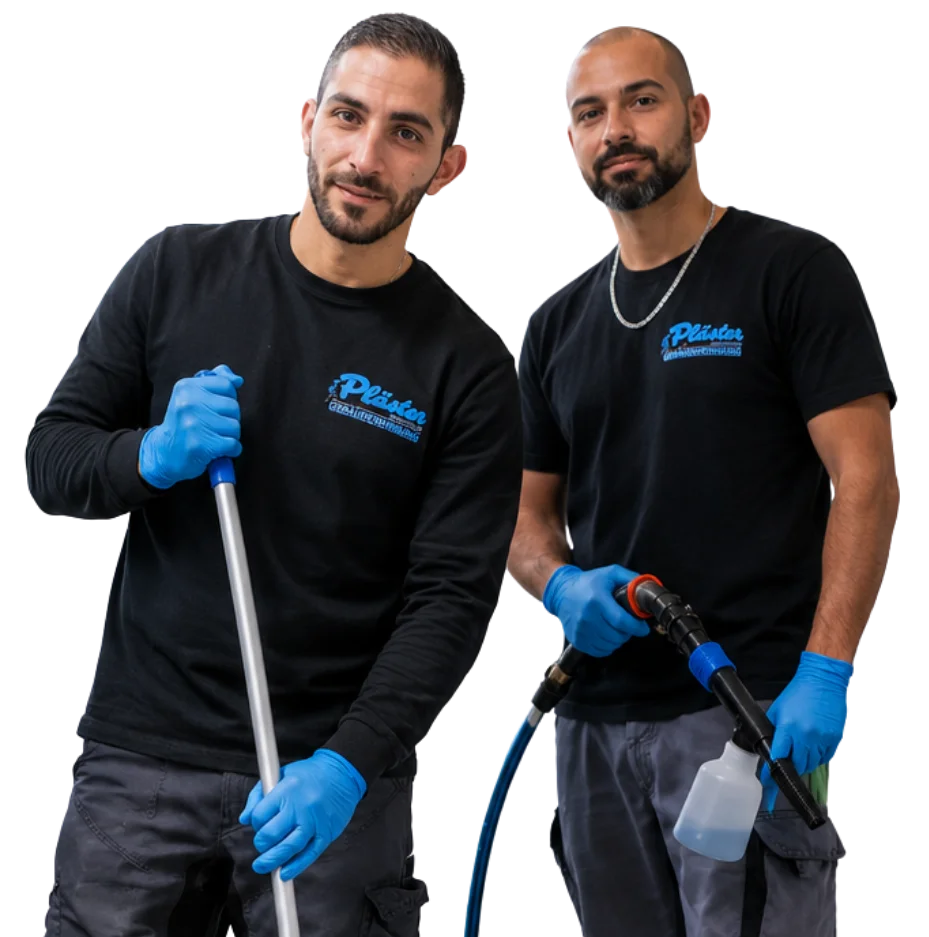
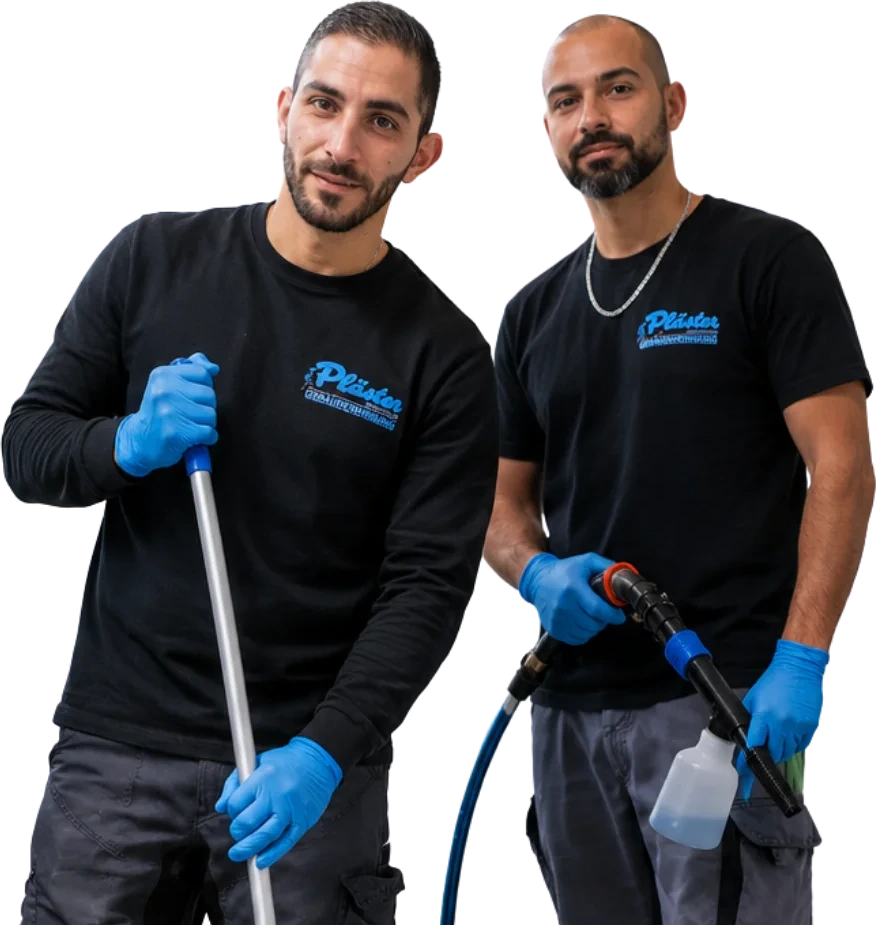
Hero flush fix, keyword marquee, magnetic CTAs, animated services bg
- Auto-crop the hero cut-out (trim baked-in padding) and drop its scroll
  parallax so it stays pinned flush to the hero bottom
- Add an animated keyword marquee band under the hero (Framer Motion loop)
- Magnetic primary CTAs (hero + CTA band) that drift toward the cursor
- Services section background now animates (drifting dot pattern)
- All reduced-motion safe

Claude-Session: https://claude.ai/code/session_019mBCDXaPf87T9i6cpRMSok

diff --git a/src/components/Magnetic.tsx b/src/components/Magnetic.tsx
@@ -1,0 +1,44 @@
+import { useRef } from "react";
+import type { ReactNode } from "react";
+import { motion, useMotionValue, useSpring, useReducedMotion } from "framer-motion";
+
+/** Wraps a button/link so it gently moves toward the cursor (magnetic effect). */
+export default function Magnetic({
+  children,
+  strength = 0.35,
+  className,
+}: {
+  children: ReactNode;
+  strength?: number;
+  className?: string;
+}) {
+  const reduce = useReducedMotion();
+  const ref = useRef<HTMLSpanElement>(null);
+  const x = useMotionValue(0);
+  const y = useMotionValue(0);
+  const sx = useSpring(x, { stiffness: 250, damping: 18, mass: 0.3 });
+  const sy = useSpring(y, { stiffness: 250, damping: 18, mass: 0.3 });
+
+  function handleMove(e: React.MouseEvent) {
+    if (reduce || !ref.current) return;
+    const r = ref.current.getBoundingClientRect();
+    x.set((e.clientX - (r.left + r.width / 2)) * strength);
+    y.set((e.clientY - (r.top + r.height / 2)) * strength);
+  }
+  function handleLeave() {
+    x.set(0);
+    y.set(0);
+  }
+
+  return (
+    <motion.span
+      ref={ref}
+      className={className}
+      onMouseMove={handleMove}
+      onMouseLeave={handleLeave}
+      style={reduce ? { display: "inline-flex" } : { x: sx, y: sy, display: "inline-flex" }}
+    >
+      {children}
+    </motion.span>
+  );
+}

diff --git a/src/components/Marquee.tsx b/src/components/Marquee.tsx
@@ -1,0 +1,33 @@
+import { motion, useReducedMotion } from "framer-motion";
+
+const items = [
+  "Unterhaltsreinigung",
+  "Glas- & Fassadenreinigung",
+  "Photovoltaik-Reinigung",
+  "Bauschlussreinigung",
+  "Reinraumreinigung",
+  "Tatortreinigung",
+  "Gerätevermietung",
+  "Seit 1982",
+];
+
+export default function Marquee() {
+  const reduce = useReducedMotion();
+  const loop = [...items, ...items];
+  return (
+    <div className="marquee" aria-hidden="true">
+      <motion.div
+        className="marquee__track"
+        animate={reduce ? undefined : { x: ["0%", "-50%"] }}
+        transition={{ duration: 30, ease: "linear", repeat: Infinity }}
+      >
+        {loop.map((t, i) => (
+          <span className="marquee__item" key={i}>
+            {t}
+            <span className="marquee__sep" />
+          </span>
+        ))}
+      </motion.div>
+    </div>
+  );
+}

diff --git a/src/components/Hero.tsx b/src/components/Hero.tsx
@@ -1,5 +1,6 @@
-import { motion, useScroll, useTransform, useReducedMotion } from "framer-motion";
+import { motion } from "framer-motion";
 import { ArrowRight } from "lucide-react";
+import Magnetic from "./Magnetic";
 import { asset } from "@/lib/asset";
 
 const EASE = [0.22, 1, 0.36, 1] as const;
@@ -18,11 +19,6 @@ const stats = [
 ];
 
 export default function Hero() {
-  const reduce = useReducedMotion();
-  const { scrollY } = useScroll();
-  // subtle scroll parallax on the team cut-out
-  const figureY = useTransform(scrollY, [0, 700], [0, reduce ? 0 : -60]);
-
   return (
     <section className="hero" style={heroBg}>
       <span className="hero__glow" aria-hidden="true" />
@@ -40,9 +36,11 @@ export default function Hero() {
             Photovoltaikanlagen und vieles mehr – zuverlässig, gründlich und mit eigenem Fuhrpark.
           </p>
           <div className="hero__actions">
-            <a className="btn btn--light btn--lg" href="#kontakt">
-              Kostenloses Angebot <ArrowRight />
-            </a>
+            <Magnetic>
+              <a className="btn btn--light btn--lg" href="#kontakt">
+                Kostenloses Angebot <ArrowRight />
+              </a>
+            </Magnetic>
             <a className="btn btn--ghost btn--on-dark btn--lg" href="#leistungen">Unsere Leistungen</a>
           </div>
         </motion.div>
@@ -53,12 +51,11 @@ export default function Hero() {
           animate={{ opacity: 1, y: 0 }}
           transition={{ duration: 0.8, delay: 0.1, ease: EASE }}
         >
-          <motion.img
-            style={{ y: figureY }}
+          <img
             src={asset("assets/plaster.webp")}
             alt="Zwei Mitarbeiter der Pläster Gebäudereinigung mit professioneller Reinigungsausrüstung"
             width={520}
-            height={540}
+            height={548}
           />
         </motion.figure>
       </div>

diff --git a/src/styles/legacy.css b/src/styles/legacy.css
@@ -780,10 +780,25 @@ button { font-family: inherit; cursor: pointer; }
 .stats--brand::before, .cta-band::before { display: none; }   /* replaced by animated layer */
 .stats--brand .container, .cta-band__inner { position: relative; z-index: 1; }
 
-/* subtle pattern behind the services section */
-.svc::before { content: ""; position: absolute; inset: 0; pointer-events: none; opacity: 0.05;
-  background-image: radial-gradient(var(--brand-navy) 1px, transparent 1.6px); background-size: 28px 28px; }
+/* animated pattern behind the services section */
+.svc::before { content: ""; position: absolute; inset: 0; pointer-events: none; opacity: 0.06;
+  background-image: radial-gradient(var(--brand-navy) 1px, transparent 1.6px); background-size: 28px 28px;
+  animation: svcPan 40s linear infinite; }
+@keyframes svcPan { from { background-position: 0 0; } to { background-position: 280px 140px; } }
 .svc > .container { position: relative; z-index: 1; }
+
+/* keyword marquee band */
+.marquee {
+  position: relative; overflow: hidden; background: var(--brand-navy); color: #fff; padding-block: 16px;
+  -webkit-mask-image: linear-gradient(90deg, transparent, #000 7%, #000 93%, transparent);
+  mask-image: linear-gradient(90deg, transparent, #000 7%, #000 93%, transparent);
+}
+.marquee__track { display: flex; width: max-content; will-change: transform; }
+.marquee__item {
+  display: inline-flex; align-items: center; gap: 30px; padding-right: 30px; white-space: nowrap;
+  font-family: var(--font-head); font-weight: 600; font-size: var(--text-lg); letter-spacing: 0.01em;
+}
+.marquee__sep { width: 8px; height: 8px; border-radius: 50%; background: var(--brand-amber); flex-shrink: 0; }
 
 /* premium button motion + colored glow on hover */
 .btn { transition: transform .2s var(--ease-out-quiet), background .2s var(--ease-out-quiet), box-shadow .2s var(--ease-out-quiet), border-color .2s var(--ease-out-quiet); }

diff --git a/src/components/Cta.tsx b/src/components/Cta.tsx
@@ -1,6 +1,7 @@
 import { ArrowRight } from "lucide-react";
 import { Reveal } from "./motion";
 import AnimatedDots from "./AnimatedDots";
+import Magnetic from "./Magnetic";
 
 export default function Cta() {
   return (
@@ -15,7 +16,9 @@ export default function Cta() {
               Lassen Sie uns über Ihr Gebäude sprechen. Wir erstellen Ihnen ein unverbindliches Angebot –
               individuell und kostenlos.
             </p>
-            <a className="btn btn--light btn--lg" href="#kontakt">Jetzt Angebot anfordern <ArrowRight /></a>
+            <Magnetic>
+              <a className="btn btn--light btn--lg" href="#kontakt">Jetzt Angebot anfordern <ArrowRight /></a>
+            </Magnetic>
           </div>
         </Reveal>
       </div>

diff --git a/src/App.tsx b/src/App.tsx
@@ -1,6 +1,7 @@
 import { MotionConfig, motion, useScroll } from "framer-motion";
 import Header from "./components/Header";
 import Hero from "./components/Hero";
+import Marquee from "./components/Marquee";
 import About from "./components/About";
 import Stats from "./components/Stats";
 import Services from "./components/Services";
@@ -30,6 +31,7 @@ export default function App() {
       <main id="main">
         <span id="top" />
         <Hero />
+        <Marquee />
         <About />
         <Stats />
         <Services />